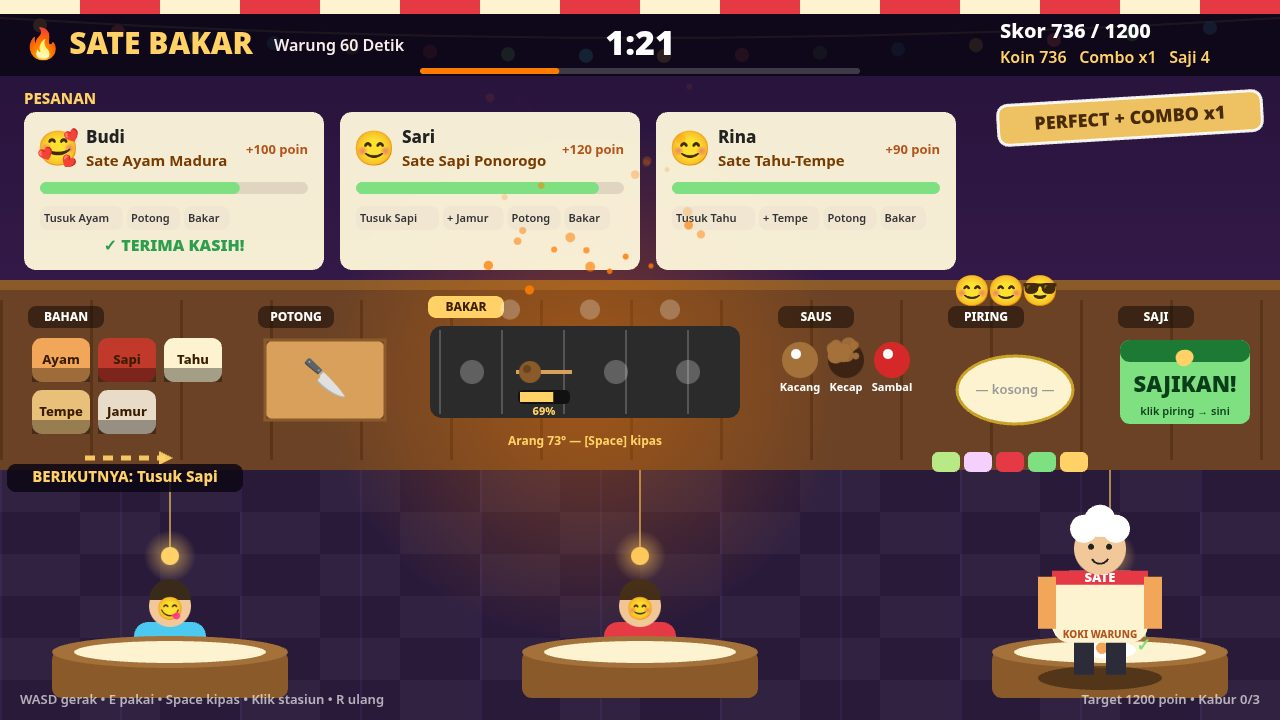
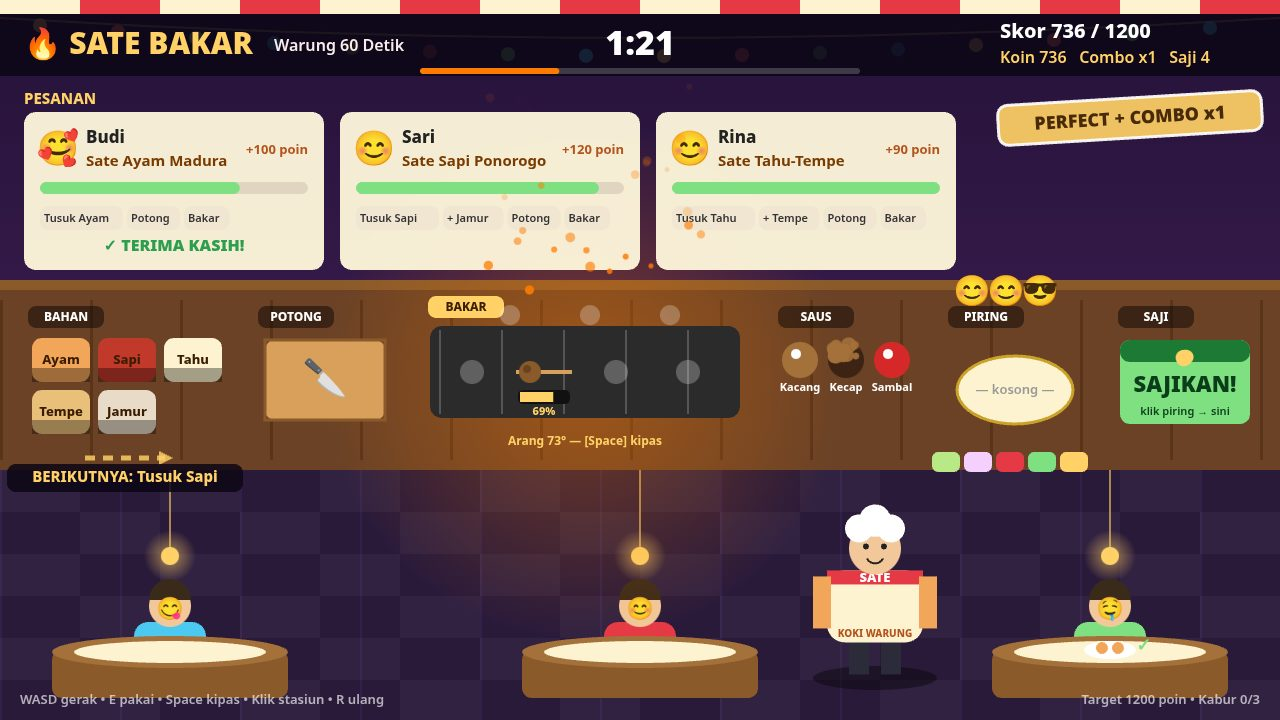
SATE BAKAR v3: chef off the right table in plate/serve shots (floor-gap staging + guard)

diff --git a/game/src/shots.js b/game/src/shots.js
@@ -100,6 +100,23 @@ function topUpOrders(g) {
   }
 }
 
+// Feet-clear floor gaps between the dining tables (see render.js): the
+// chef's legs span ±26 px, so a staged chef x must sit in [314,496] or
+// [784,966]. Anything outside snaps to the nearest gap centre.
+const FLOOR_GAPS = [[314, 496], [784, 966]];
+function stageChefX(x) {
+  for (const [lo, hi] of FLOOR_GAPS) {
+    if (x >= lo && x <= hi) return x;
+  }
+  let best = 875;
+  let bestD = Infinity;
+  for (const [lo, hi] of FLOOR_GAPS) {
+    const c = (lo + hi) / 2;
+    if (Math.abs(x - c) < bestD) { bestD = Math.abs(x - c); best = c; }
+  }
+  return best;
+}
+
 export function stageScene(name) {
   const g = makeGame(7);
   startGame(g);
@@ -134,8 +151,16 @@ export function stageScene(name) {
     if (!g.flash) runFor(g, 20, (state) => state.flash && state.flash.text.startsWith('PERFECT'));
   }
   topUpOrders(g);
-  // Keep the chef near the grill for the cover, near the plate otherwise.
-  g.chef.x = name === 'plate' ? 1015 : name === 'serve' ? 1100 : 480;
+  // Chef staging: the chef's FEET (legs, ±26 px) must stand in a floor gap
+  // between the dining tables — left table ends 288, middle 522-758, right
+  // starts 992 — so the feet-clear gaps are [314,496] and [784,966].
+  // stageChefX enforces that: a staged x outside both gaps snaps to the
+  // nearest gap centre instead of silently landing the chef on a table.
+  // Cover/grill: 480 (left gap, near the grill). Plate/serve: 875 (right
+  // gap centre, clear of every table edge and every guest). The old plate
+  // (1015) and serve (1100) positions put the chef ON the right table,
+  // hiding the right guest — this guard makes that impossible to re-stage.
+  g.chef.x = stageChefX(name === 'plate' || name === 'serve' ? 875 : 480);
   g.chef.targetX = null;
   // A clean frame: no transient hint bar over the chef.
   g.message = '';
